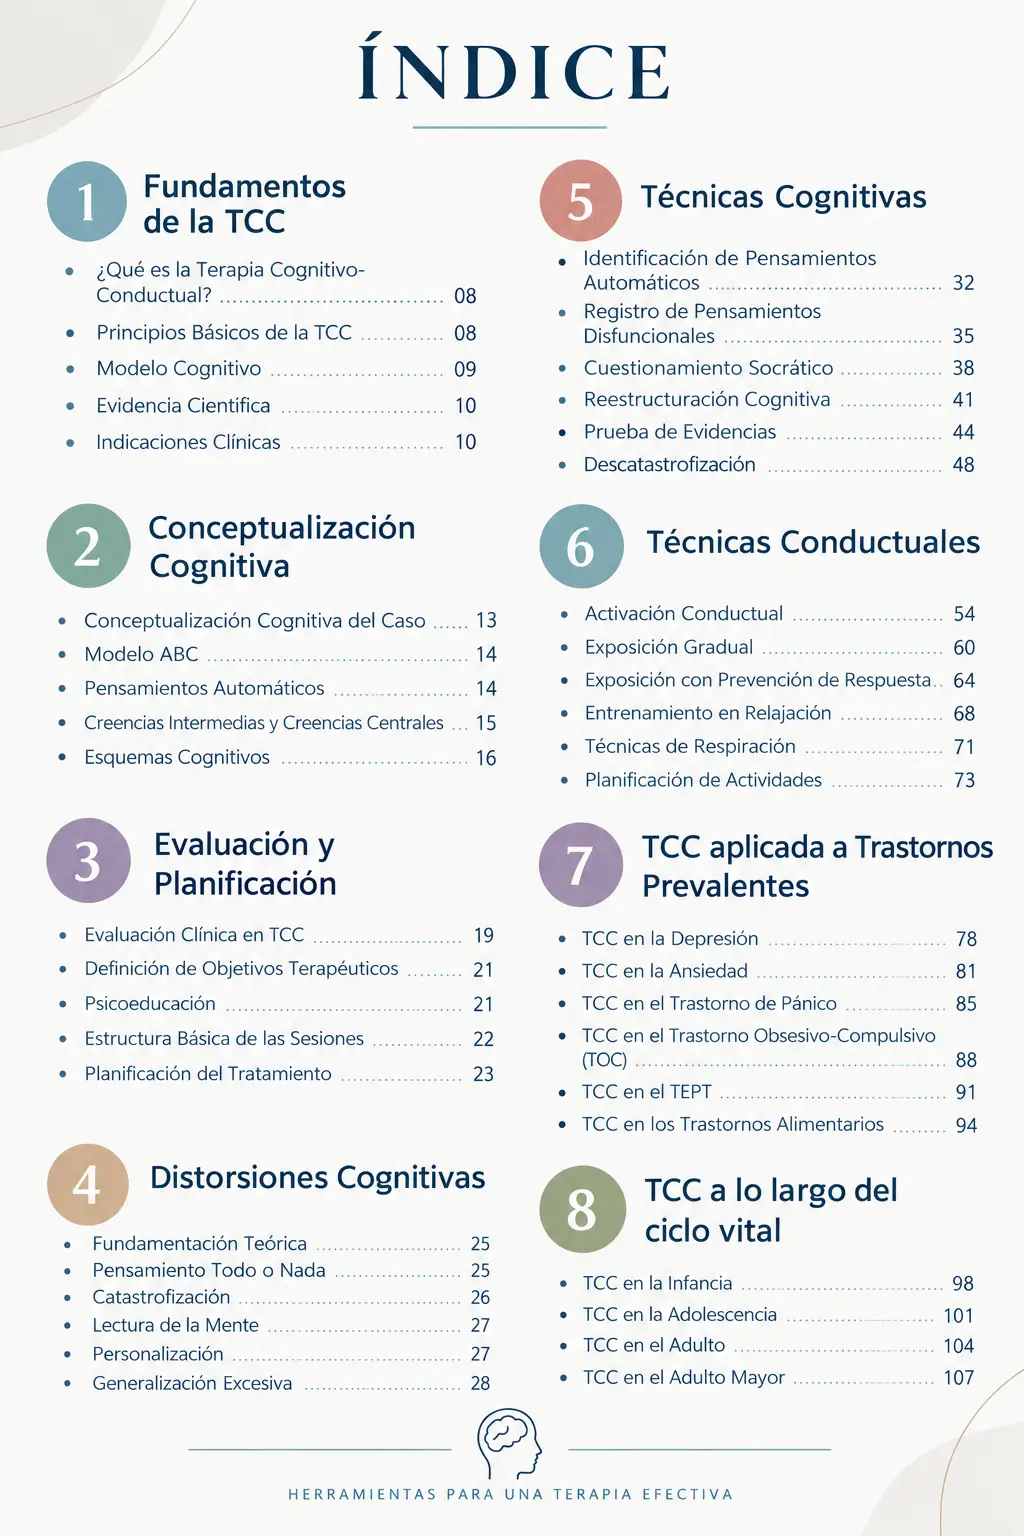
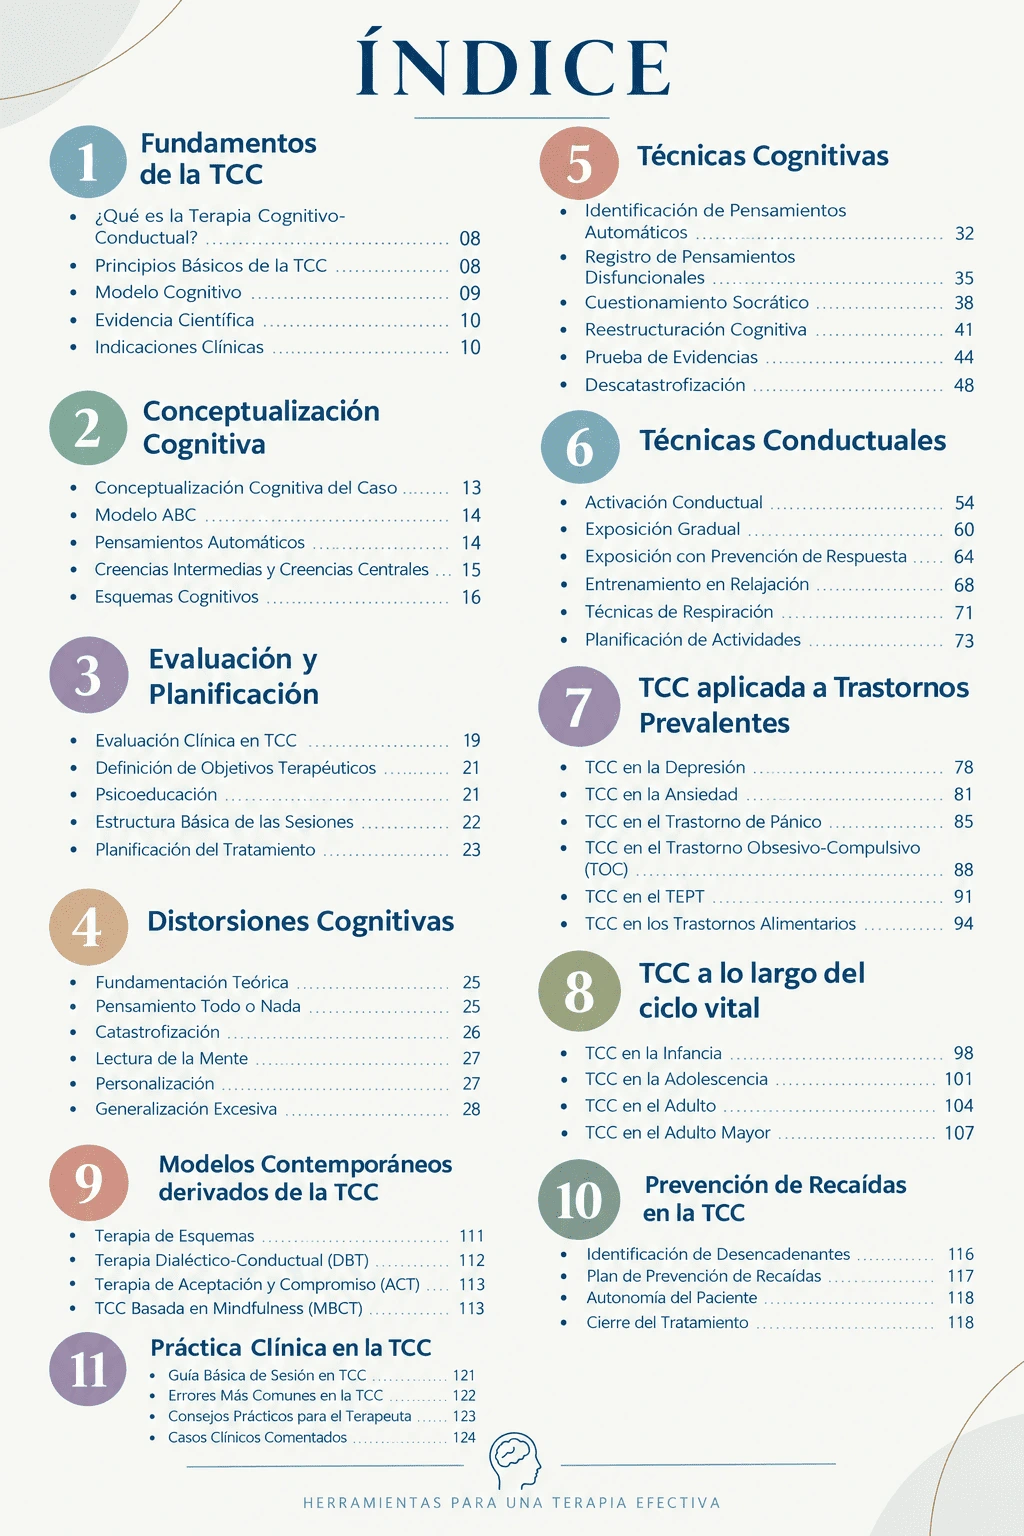
Reorder landing sections, update index carousel image, tighten Bonus/TOC spacing

diff --git a/components/bonus.tsx b/components/bonus.tsx
@@ -40,7 +40,7 @@ export function Bonus() {
       id="bonus"
       className="scroll-mt-24 bg-background"
     >
-      <div className="mx-auto max-w-6xl px-4 py-16 sm:py-20">
+      <div className="mx-auto max-w-6xl px-4 pt-16 pb-8 sm:pt-20 sm:pb-10">
         <FadeIn className="mx-auto max-w-2xl text-center">
           <span className="inline-flex items-center gap-2 rounded-full bg-accent/10 px-4 py-1.5 text-sm font-semibold text-accent">
             <Gift className="h-4 w-4" />

diff --git a/components/table-of-contents.tsx b/components/table-of-contents.tsx
@@ -64,7 +64,7 @@ export function TableOfContents() {
       id="contenido"
       className="scroll-mt-24 bg-muted"
     >
-      <div className="mx-auto max-w-5xl px-4 py-16 sm:py-20">
+      <div className="mx-auto max-w-5xl px-4 pt-6 pb-16 sm:pt-8 sm:pb-20">
         <FadeIn className="mx-auto max-w-2xl text-center">
           <span className="text-sm font-semibold uppercase tracking-wide text-accent">
             Contenido

diff --git a/app/manual-tcc/page.tsx b/app/manual-tcc/page.tsx
@@ -25,13 +25,13 @@ export default function ManualTccPage() {
         <Hero />
         <Testimonials />
         <PainPoints />
+        <Audience />
         <Solution />
-        <About />
-        <PricingStrip />
         <Bonus />
         <TableOfContents />
-        <Audience />
+        <About />
         <Comparison />
+        <PricingStrip />
         <Faq />
         <FinalCta />
       </main>
